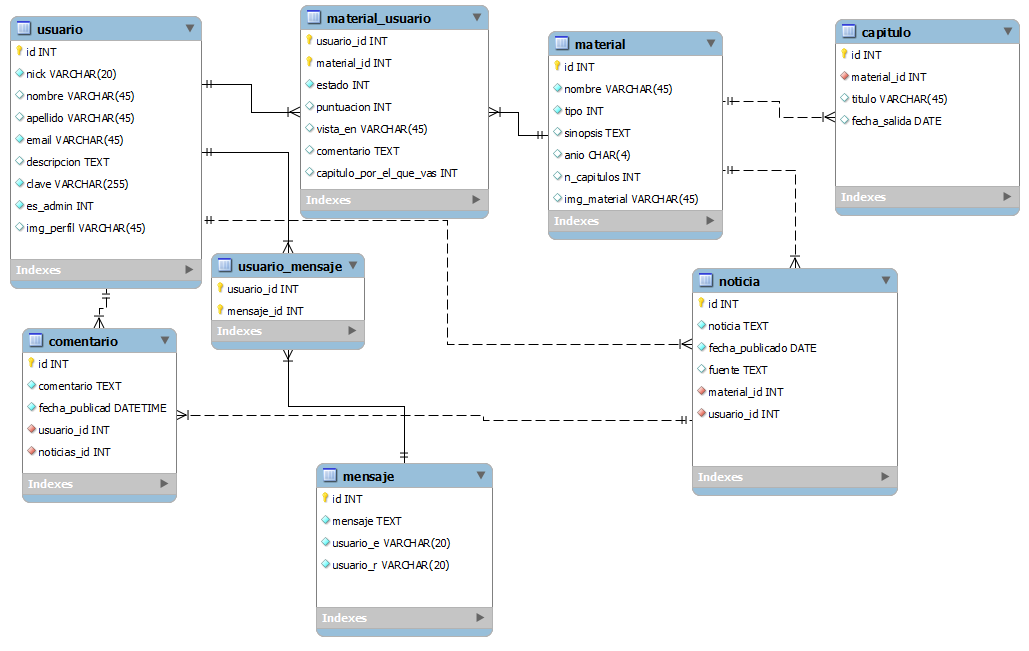
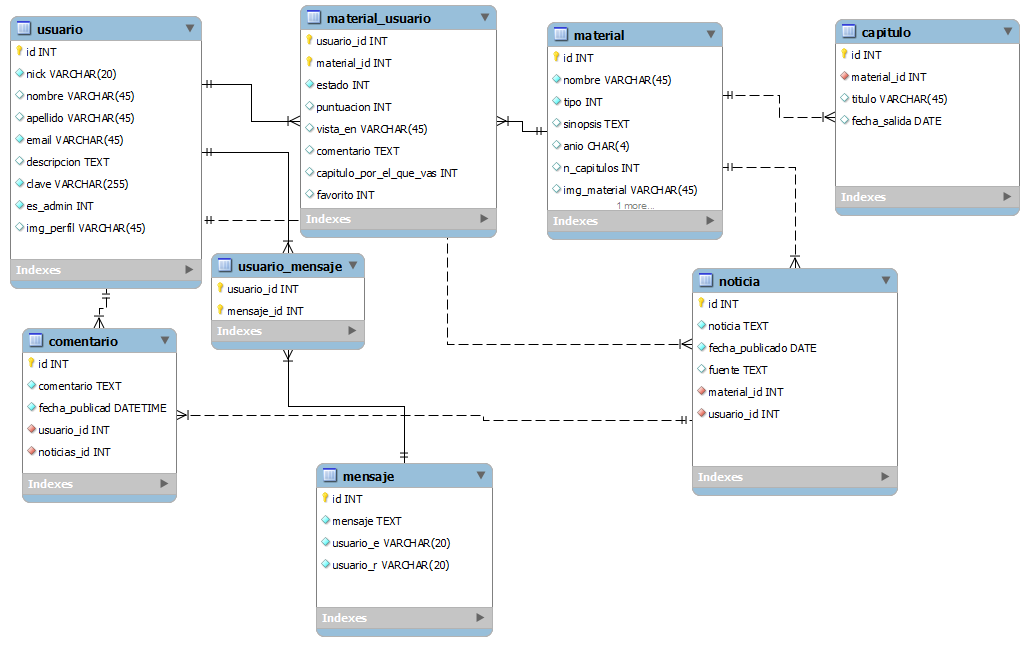
Añadidos campos a la BD, muestra de 'favoritos' en el perfil del usuario

diff --git a/public/utilidades/css/MyStyle.css b/public/utilidades/css/MyStyle.css
@@ -96,3 +96,10 @@
 {
     margin-top: 50px !important;
 }
+@media all and (min-width: 30px) and (max-width: 550px) 
+{
+    .btn-group
+    {
+          margin-bottom: 50px !important;
+    }
+}

diff --git a/public/funciones.php b/public/funciones.php
@@ -17,15 +17,19 @@ function registrarse($nick, $contraseña, $email, $nombre, $apellido, $descripci
             $insertarUsuario->descripcion = $descripcion;
             $insertarUsuario->clave = $contraseña; // A pelo de momento, luego se hará encriptación
             $insertarUsuario->es_admin = 0; // 1 es que si es admin. Solo habrá un admin para pruebas
-            if(subir_archivo($nick))
+            
+            if($_FILES['uploadedfile']['name'] == null || $_FILES['uploadedfile']['name'] == "")
             {
-                echo "Imagen subida como Ryuk manda";
+                $insertarUsuario->img_perfil = "/utilidades/image/perfil/default.png";
+                $insertarUsuario->save();
+            }
+            else if(subir_archivo($nick))
+            {
                 $insertarUsuario->img_perfil = "/utilidades/image/perfil/".$nick.".jpg";
                 $insertarUsuario->save();
             }
             else
             {
-                echo "Vete a hacer puñetas";
                 $dbh->rollback();
                 return false;
             }

diff --git a/public/index.php b/public/index.php
@@ -175,6 +175,10 @@ $app->get('/datosmaterial/:idt/', function($idt) use ($app) {
 
 $app->get('/datosusuario/:nicku/', function($nicku) use ($app) {
             $datosUsuario = ORM::for_table('usuario')->where('nick',$nicku)->find_one();
+            $favs = ORM::for_table('material')->select_many('material.nombre','material.img_material','material.id')->
+                    join('material_usuario', array('material.id','=','material_usuario.material_id'))->
+                    where('material_usuario.usuario_id',$datosUsuario->id)->
+                    where('material_usuario.favorito',1)->find_many();
             if(empty($datosUsuario))
             {
                 echo "Ese usuario no existe"; // Esto está cutrisimo, pero por ahora se queda así
@@ -183,6 +187,7 @@ $app->get('/datosusuario/:nicku/', function($nicku) use ($app) {
             {
                 $app->render('datosusuario.html.twig', array(
                     'datos' => $datosUsuario,
+                    'favs' => $favs
                 ));
             }
         });
